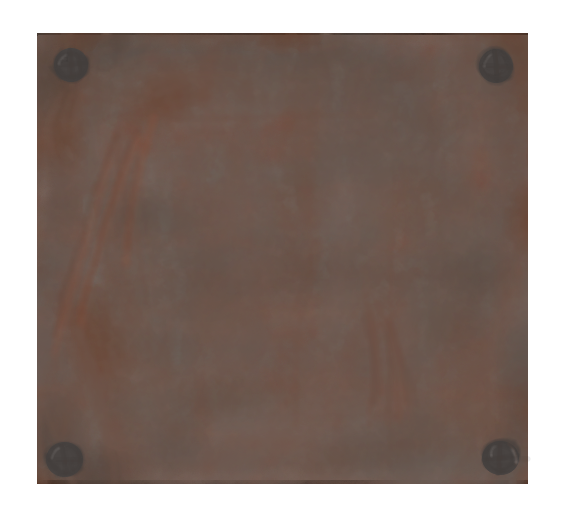
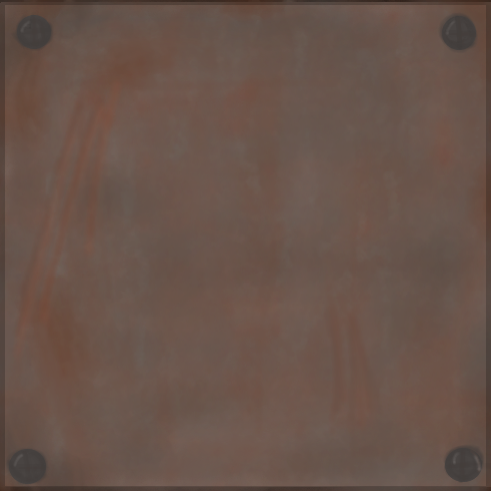
Floor textures added to floor tiles

Changed region(s): [[0.0, 0.0, 1.0, 1.0]]

diff --git a/Assets/Scenes/GroupY/Scripts/PlayerControls.cs b/Assets/Scenes/GroupY/Scripts/PlayerControls.cs
@@ -68,7 +68,6 @@ public class PlayerControls : MonoBehaviour
         void OnTriggerEnter(Collider C){
         if(C.gameObject.tag == "Projectile" && KnockedBack == false){
             rb = C.gameObject.GetComponent<Rigidbody>();
-            Debug.Log(C.gameObject.name);
             KnockbackDir = rb.velocity.normalized;
             Destroy(C.gameObject);
             _rigidbody.velocity = new Vector3(0f, 0f, 0f);
@@ -78,7 +77,6 @@ public class PlayerControls : MonoBehaviour
     }
 
     void CancelKnockback(){
-        Debug.Log("Hi");
         KnockedBack = false;
     }
 }

diff --git a/Assets/Scenes/GroupY/Scripts/MovingSpotlightPositionScript.cs b/Assets/Scenes/GroupY/Scripts/MovingSpotlightPositionScript.cs
@@ -28,7 +28,7 @@ public class MovingSpotlightPositionScript : MonoBehaviour
     void Update()
     {
 
-        if (StageManager.instance.stageTime <= 115.0f && HasSpawned == false) {
+        if (StageManager.instance.stageTime <= 60.0f && HasSpawned == false) {
             HasSpawned = true;
             SpotLightSpawnAndMove();
             

diff --git a/Assets/Scenes/GroupY/Scripts/PowerUpSpawner.cs b/Assets/Scenes/GroupY/Scripts/PowerUpSpawner.cs
@@ -45,7 +45,7 @@ public class PowerUpSpawner : MonoBehaviour
             Spawned = PowerUp;
         }
 
-        SpawnedPowerUp = Instantiate(Spawned,SpawnPoint,Quaternion.Euler(90f,0f,0f));
+        SpawnedPowerUp = Instantiate(Spawned,SpawnPoint,Quaternion.Euler(75f,0f,0f));
         Destroy(SpawnedPowerUp, 30);
     }
 }
